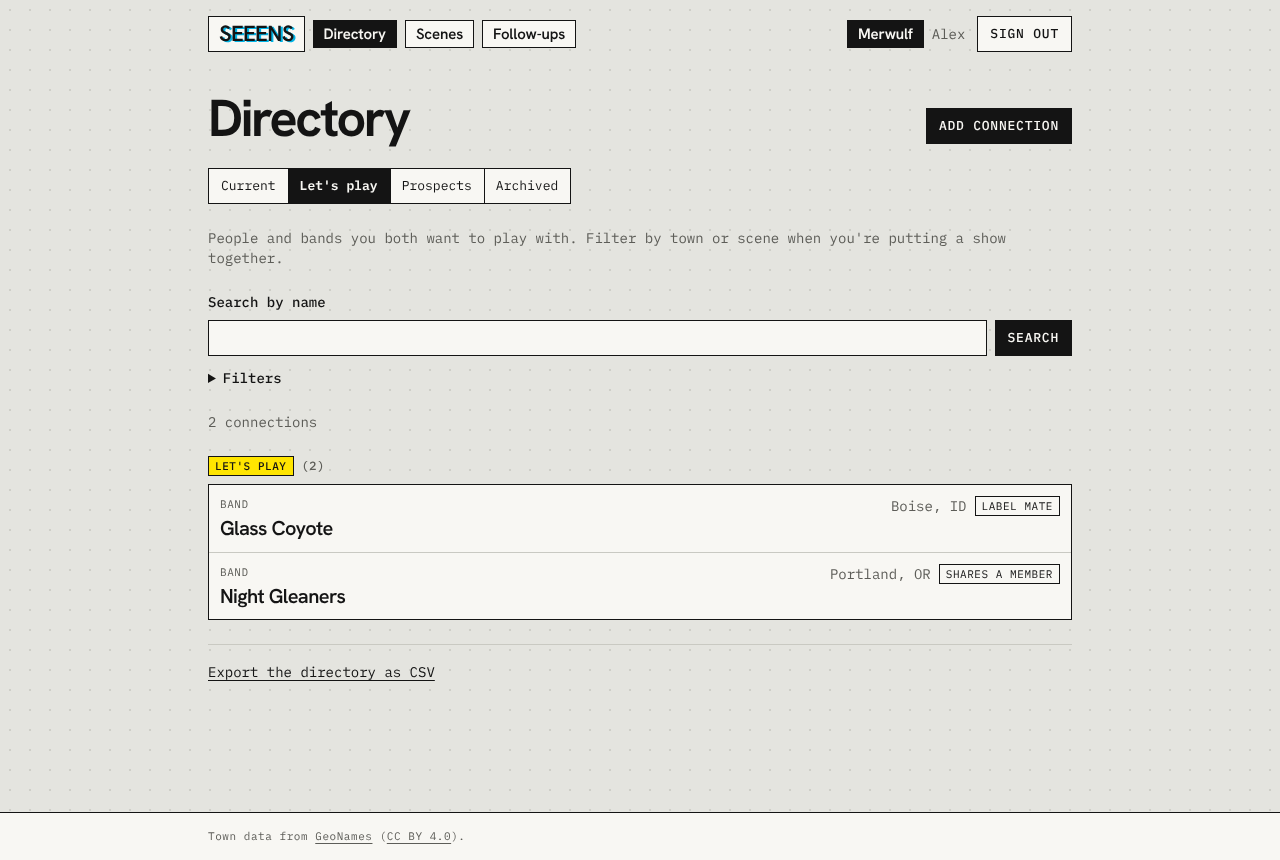
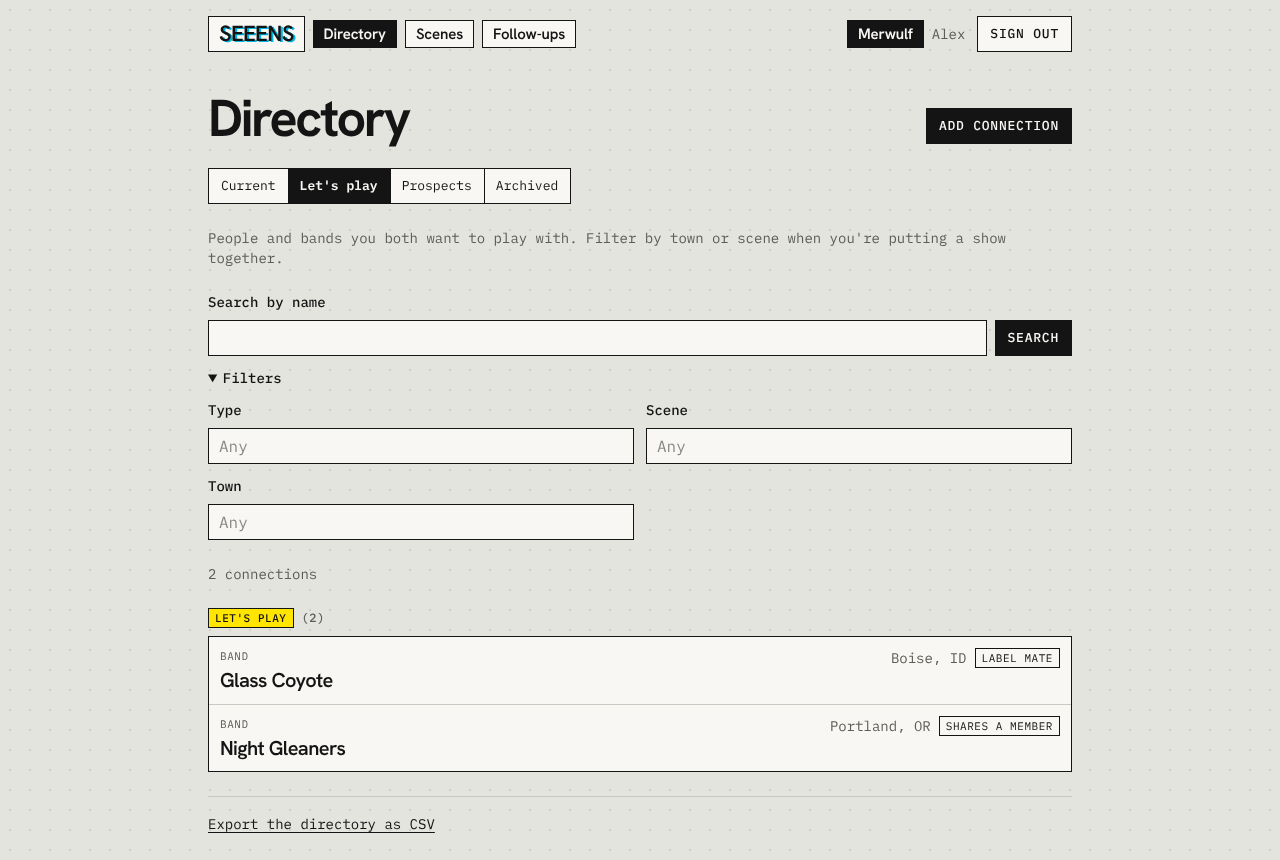
README: launch-day screenshots and status
Retakes the details page (status row, Edit on the title row) and the
Let's play list with the search-select filters open. The other five are
unchanged pixel for pixel. Captions and status now say the MVP launched
November 1.

Claude-Session: https://claude.ai/code/session_01SMP6NnJD4WfxjNFgksjBuR

diff --git a/README.md b/README.md
@@ -17,7 +17,7 @@ All data shown is fictional sample data from `supabase/seed.sql`.
 | | |
 | --- | --- |
 | ![Sign-in page with the "Your people. Your scenes." headline](docs/screenshots/login.png) | ![A band's page with status, next action, outreach log, and connections](docs/screenshots/connection.png) |
-| **Sign in.** Invite-only. | **A connection.** Status in one tap, the next step, what's happened, and who's connected. |
+| **Sign in.** Invite-only. | **A connection.** Where things stand, the next step, what's happened, and who's connected. |
 | ![The Let's play list](docs/screenshots/lets-play.png) | ![Scenes nested under Pacific Northwest](docs/screenshots/scenes.png) |
 | **Let's play.** The booking backlog, filterable by town or scene. | **Scenes.** Local scenes inside bigger ones, like the Pacific Northwest. |
 | ![Follow-ups grouped by date](docs/screenshots/follow-ups.png) | ![The directory on a phone](docs/screenshots/mobile-directory.png) |
@@ -58,10 +58,10 @@ Configure Supabase authentication redirects for production, approved preview env
 
 ## Delivery target
 
-Live MVP: **by November 8, 2026** (moved up from November 10–17).
+Live MVP: **launched November 1, 2026**, ahead of the November 10–17 target.
 
 1. **October 27–November 1 (done):** fields and scene structure, sign-in, membership policies, directory and editor, scenes and filters, statuses, prospects, outreach history, follow-ups, export, mobile layouts, and phase 1 design tokens. Deployed on Vercel.
-2. **November 2–8:** verify collaboration and data access with two members, fix workflow issues, and launch.
+2. **November 1 (done):** verified collaboration and data access with two members, fixed workflow issues, and launched ([#13](https://github.com/rainbows4dinos/seeens/issues/13)).
 
 Launch means two authorized band members can update the same records across devices, unauthorized users cannot read or change them, and the core add → organize → set status → follow up workflow works on mobile and desktop. CSV export must work. Launch is tracked in [#13](https://github.com/rainbows4dinos/seeens/issues/13).
 
@@ -78,18 +78,18 @@ Planned after launch, among others:
 
 ## Development status
 
-The MVP feature set is built and deployed:
+The MVP launched on November 1, 2026. What it does:
 
 - Email/password sign-in, with access limited to workspace members.
 - Directory: add, edit, view, and archive connections; Current, Let's play, Prospects, and Archived views; search and filters.
 - Scenes, including scenes inside bigger ones, and town search from GeoNames.
-- Status in one tap, plus "we've played together."
+- Status and "we've played together," saved as soon as you change them.
 - Affiliations between connections (members, labels, related bands, venues).
 - Outreach log, next actions, and the Follow-ups page.
 - CSV export.
 - Error and not-found pages, and phase 1 design tokens from Figma.
 
-Database schema, Row Level Security, and access tests are in `supabase/`. Next up: two-member validation and launch ([#13](https://github.com/rainbows4dinos/seeens/issues/13)) and the phase 2 visual pass ([#12](https://github.com/rainbows4dinos/seeens/issues/12)).
+Database schema, Row Level Security, and access tests are in `supabase/`. Next up: the phase 2 visual pass ([#12](https://github.com/rainbows4dinos/seeens/issues/12)).
 
 ## Local setup
 
